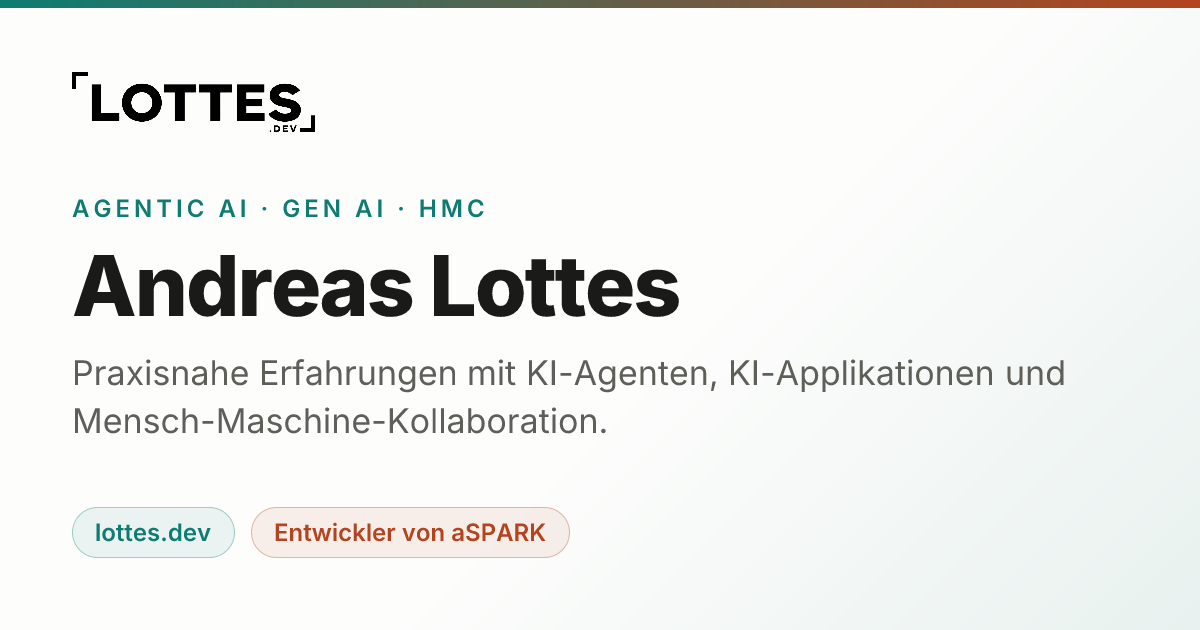
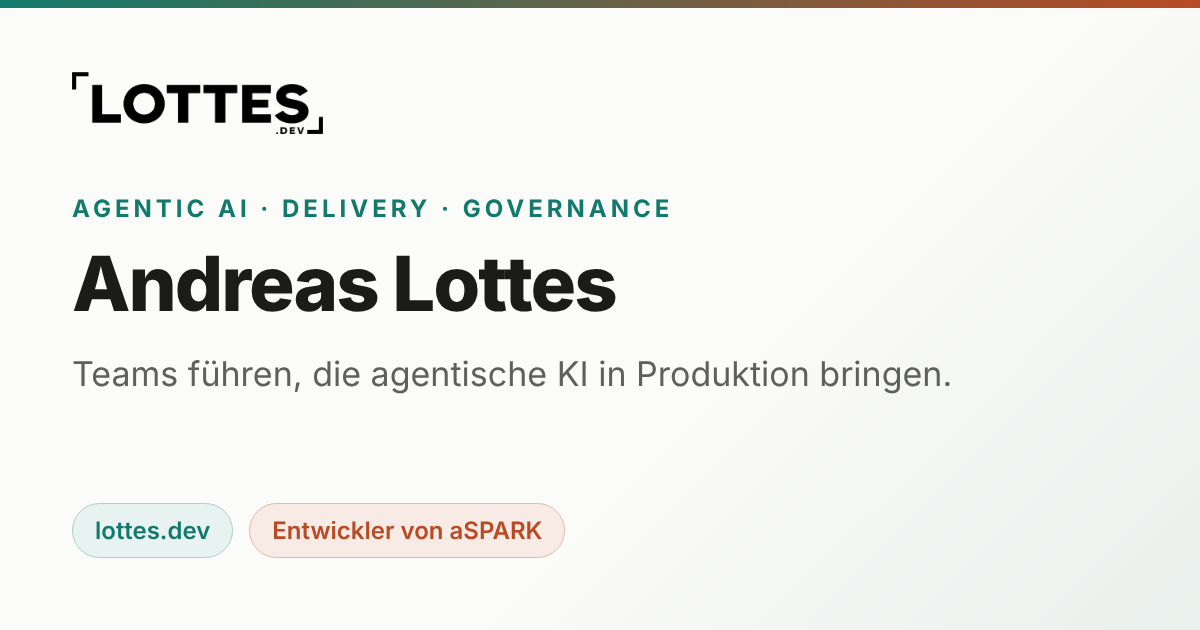
Align site title, footer, share images and structured data with new positioning
Claude-Session: https://claude.ai/code/session_018FvhDA9uLZLGnk7afUA8zi

diff --git a/_data/i18n/de/index.js b/_data/i18n/de/index.js
@@ -60,5 +60,6 @@ module.exports = {
     install: "Installation",
     view_on_github: "Auf GitHub ansehen",
     projects_count: "Projekte",
-    site_description: "Praxisnahe Erfahrungen mit KI-Agenten, KI-Applikationen und Mensch-Maschine-Kollaboration – von Andreas Lottes, Entwickler von aSPARK.",
+    site_description: "Führung von Teams, die agentische KI in Produktion bringen: Delivery, Governance und Auditierbarkeit – von Andreas Lottes, Entwickler von aSPARK.",
+    footer_description: "Ich bin Andreas Lottes und schreibe hier über Agenten in Produktion, über die Führung von KI-Delivery und über Governance für Teams aus Menschen und Agenten.",
 };

diff --git a/_data/i18n/fr/index.js b/_data/i18n/fr/index.js
@@ -60,5 +60,6 @@ module.exports = {
     install: "Installation",
     view_on_github: "Voir sur GitHub",
     projects_count: "projets",
-    site_description: "Retours d'expérience sur les agents IA, les applications d'IA et la collaboration humain-machine – par Andreas Lottes, créateur d'aSPARK.",
+    site_description: "Diriger les équipes qui mettent l'IA agentique en production : delivery, gouvernance et auditabilité – par Andreas Lottes, créateur d'aSPARK.",
+    footer_description: "Je suis Andreas Lottes. J'écris sur les agents en production, la direction de la delivery IA et la gouvernance des équipes humains-agents.",
 };

diff --git a/_data/i18n/en/index.js b/_data/i18n/en/index.js
@@ -60,5 +60,6 @@ module.exports = {
     install: "Install",
     view_on_github: "View on GitHub",
     projects_count: "projects",
-    site_description: "Hands-on experience with AI agents, AI applications and human–machine collaboration – by Andreas Lottes, creator of aSPARK.",
+    site_description: "Leading teams that bring agentic AI into production: delivery, governance, and auditability – by Andreas Lottes, creator of aSPARK.",
+    footer_description: "I am Andreas Lottes. I write about agents in production, leading AI delivery, and governance for teams of people and agents.",
 };

diff --git a/_data/metadata.js b/_data/metadata.js
@@ -1,5 +1,5 @@
 module.exports = {
-    title: "Agentic and Generative AI",
+    title: "Andreas Lottes",
     url: "https://lottes.dev/",
     newsletter: [
         {
@@ -19,7 +19,7 @@ module.exports = {
     sourcehut_url: "",
     repository_url: "https://github.com/a-lottes/lottes.dev",
     language: "de",
-    description: "A New Era of Human-Machine Collaboration",
+    description: "Agentic AI delivery leadership",
     author: {
         name: "Andreas Lottes",
         email: "andreas@lottes.dev",
